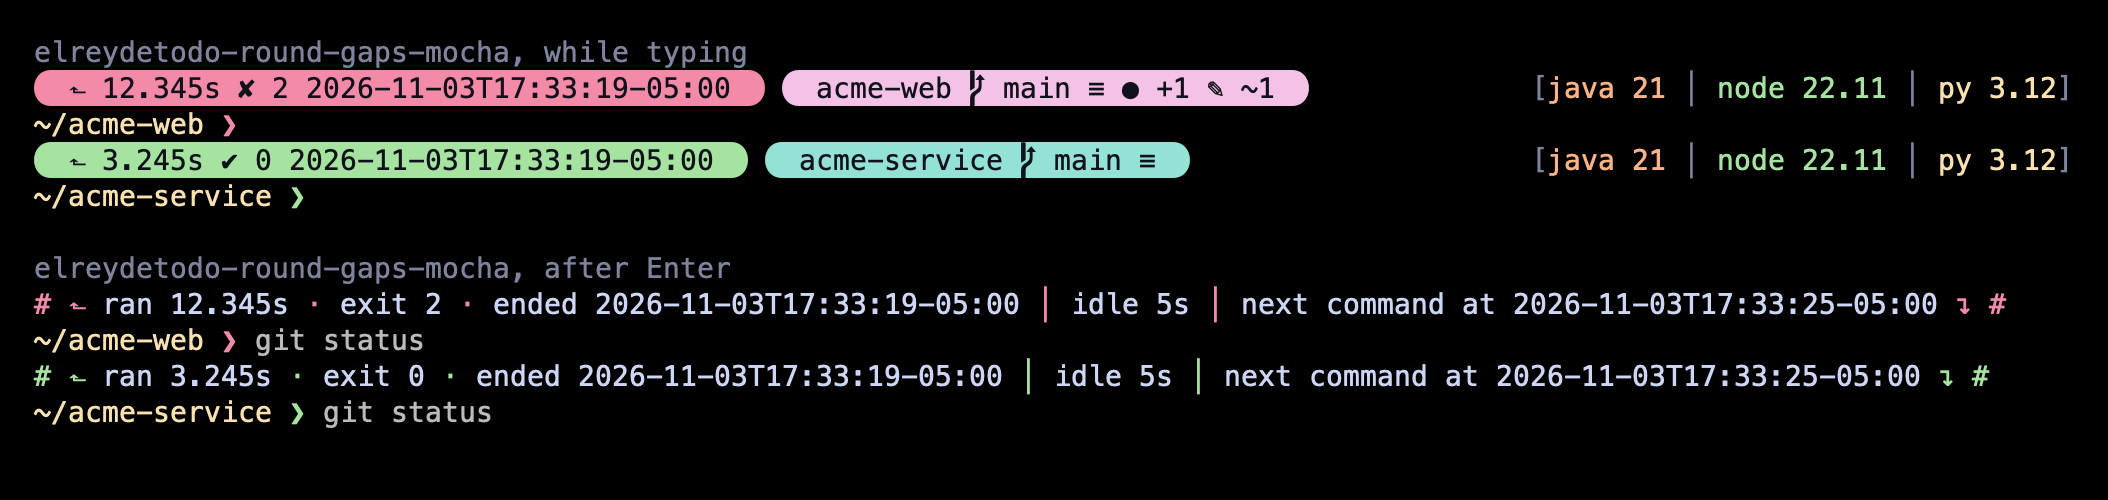
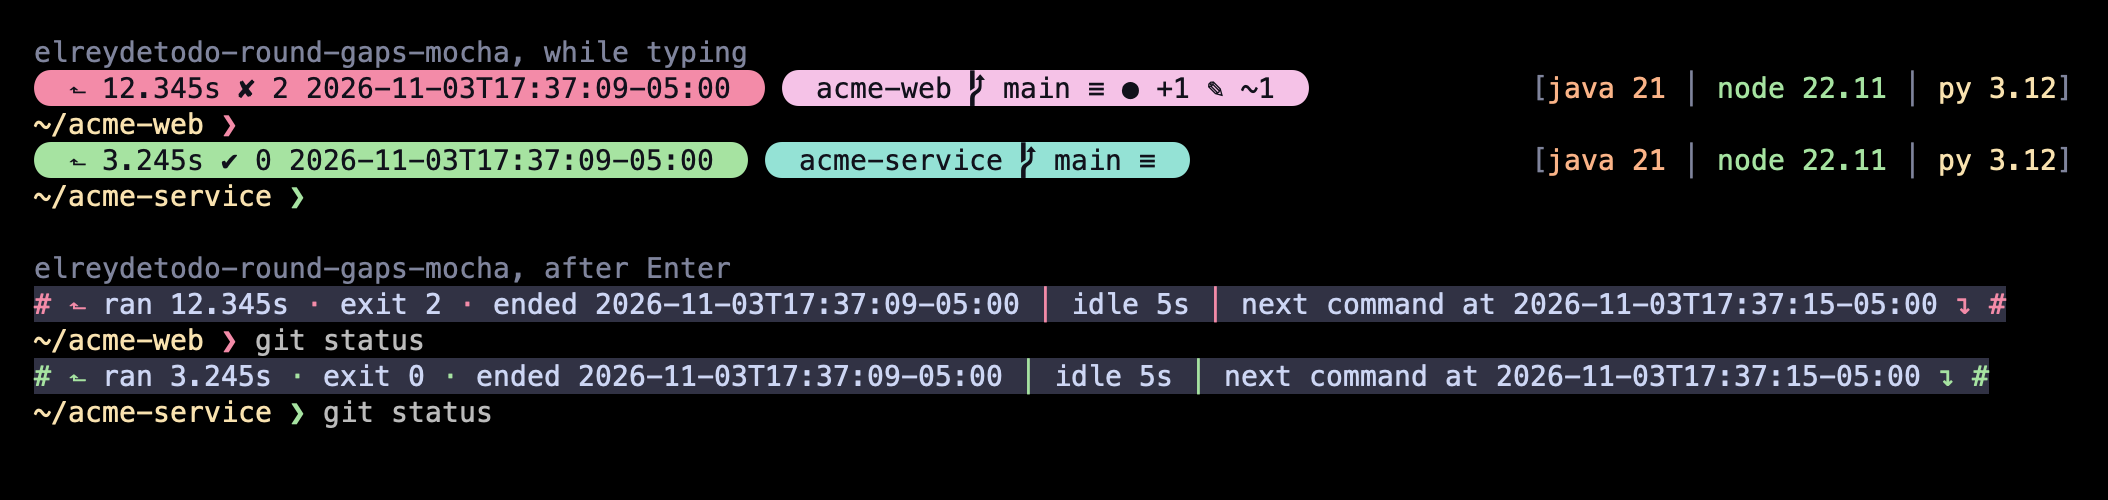
Put the committed line on a background band
The outcome-colored anchors still left the committed line easy to miss,
because its text is the same plain color as command output. The line
now sits on a band in a new committed-band palette color, a shade a
little lighter than a dark terminal. Each color set has its own: its
surface color in Mocha, Nord, Rosé Pine, Tokyo Night and Gruvbox, and a
neutral slate for pastel and dark.

The band covers the text from the first # to the last. It cannot run the
full width of the terminal, because the transient template cannot see
the width. The band also stops at the line break, so the input line and
the typed command below it keep the terminal's own background.

A background does not paste as junk, because only the characters are
copied. The comments and DESIGN.md now forbid Nerd Font characters on
the committed line, but no longer backgrounds.

diff --git a/oh-my-posh/DESIGN.md b/oh-my-posh/DESIGN.md
@@ -92,12 +92,16 @@ in the live prompt's first pill. They use the color set's `ink-*` colors, becaus
 can be too dark to read as text. All the other text on the line is one plain color. The colored
 anchors make the line easy to find in scrollback, and they repeat the exit status at a glance.
 
+The first line also sits on a background band in the color set's `committed-band` color, a shade a
+little lighter than a dark terminal. The band runs from the first `#` to the last one. It cannot
+run the full width of the terminal, because the template cannot see the width.
+
 The second line is the input line exactly as it was typed, with the same path and lead-in as the
 live prompt. Git and tooling information MUST NOT appear in the committed prompt.
 
-The committed prompt uses colored text only. It MUST NOT contain background colors, rounded pill
-ends, or other Nerd Font private-use characters, because those paste as junk outside the terminal.
-`⬑` and `↴` are standard Unicode and are the only arrows used.
+The committed prompt MUST NOT contain rounded pill ends or other Nerd Font private-use characters,
+because those paste as junk outside the terminal. Colors, including the band, are fine, because
+only the characters are copied. `⬑` and `↴` are standard Unicode and are the only arrows used.
 
 Four cases change the first line:
 
